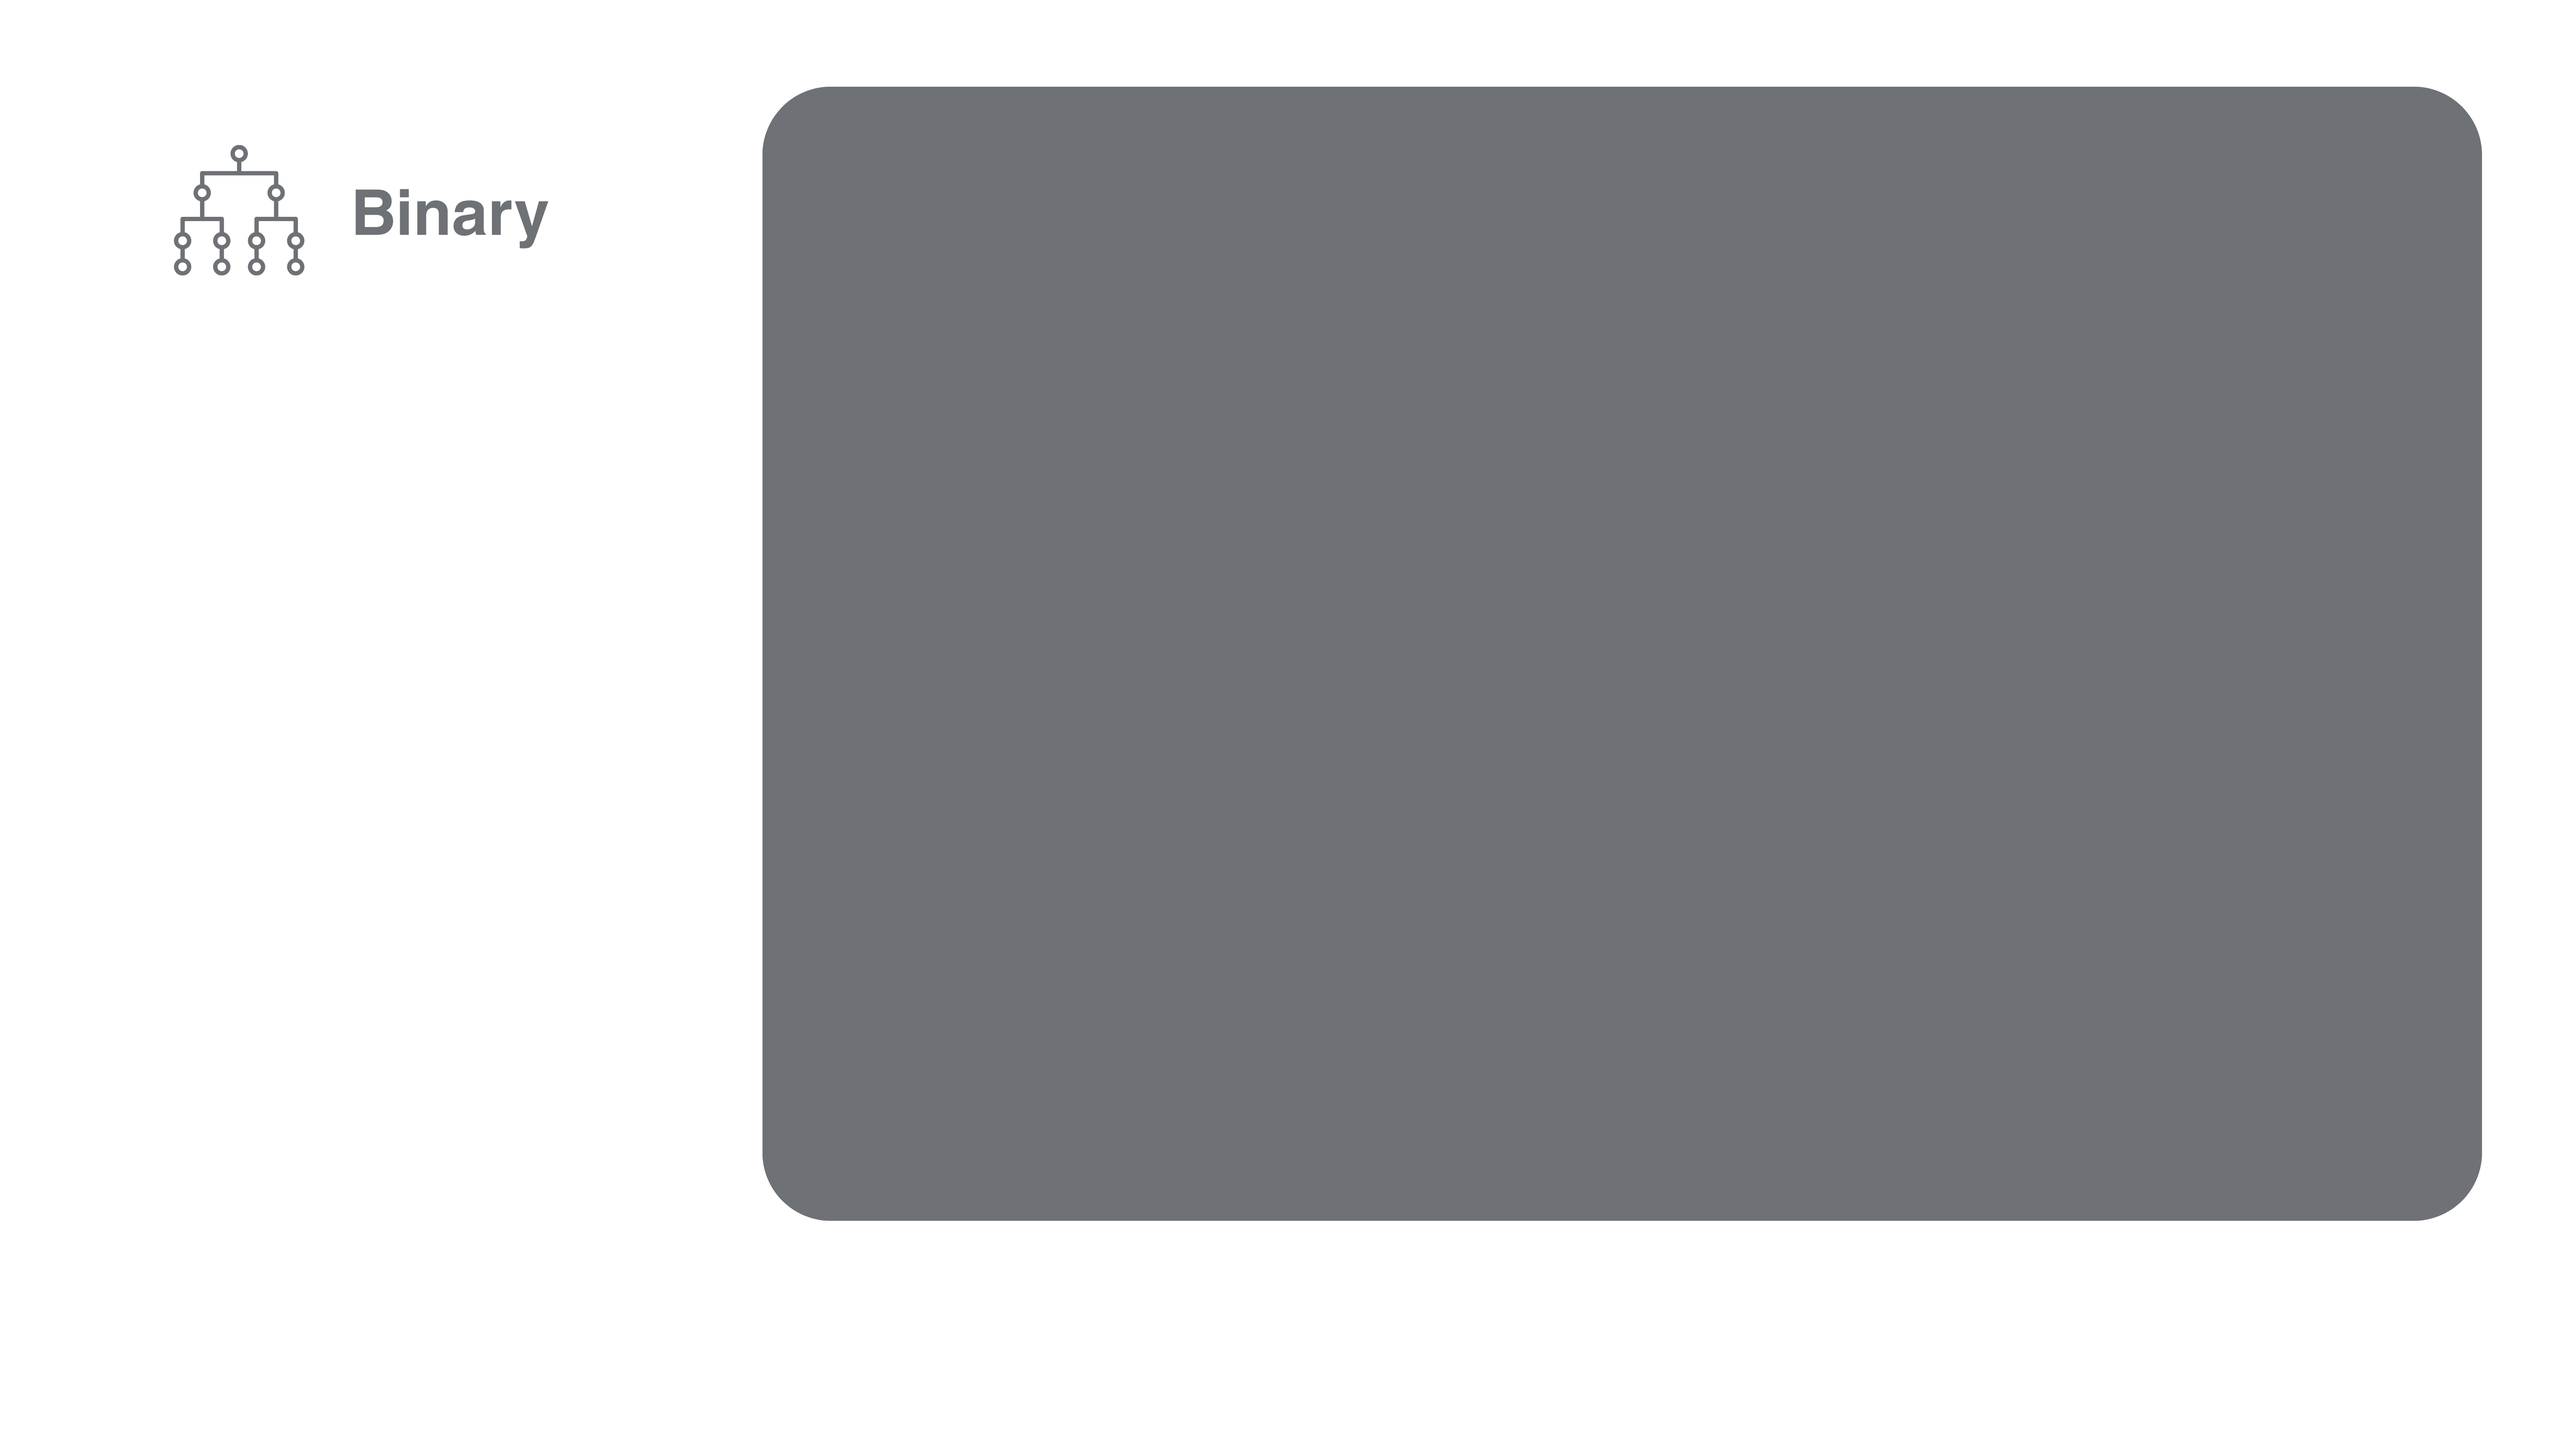
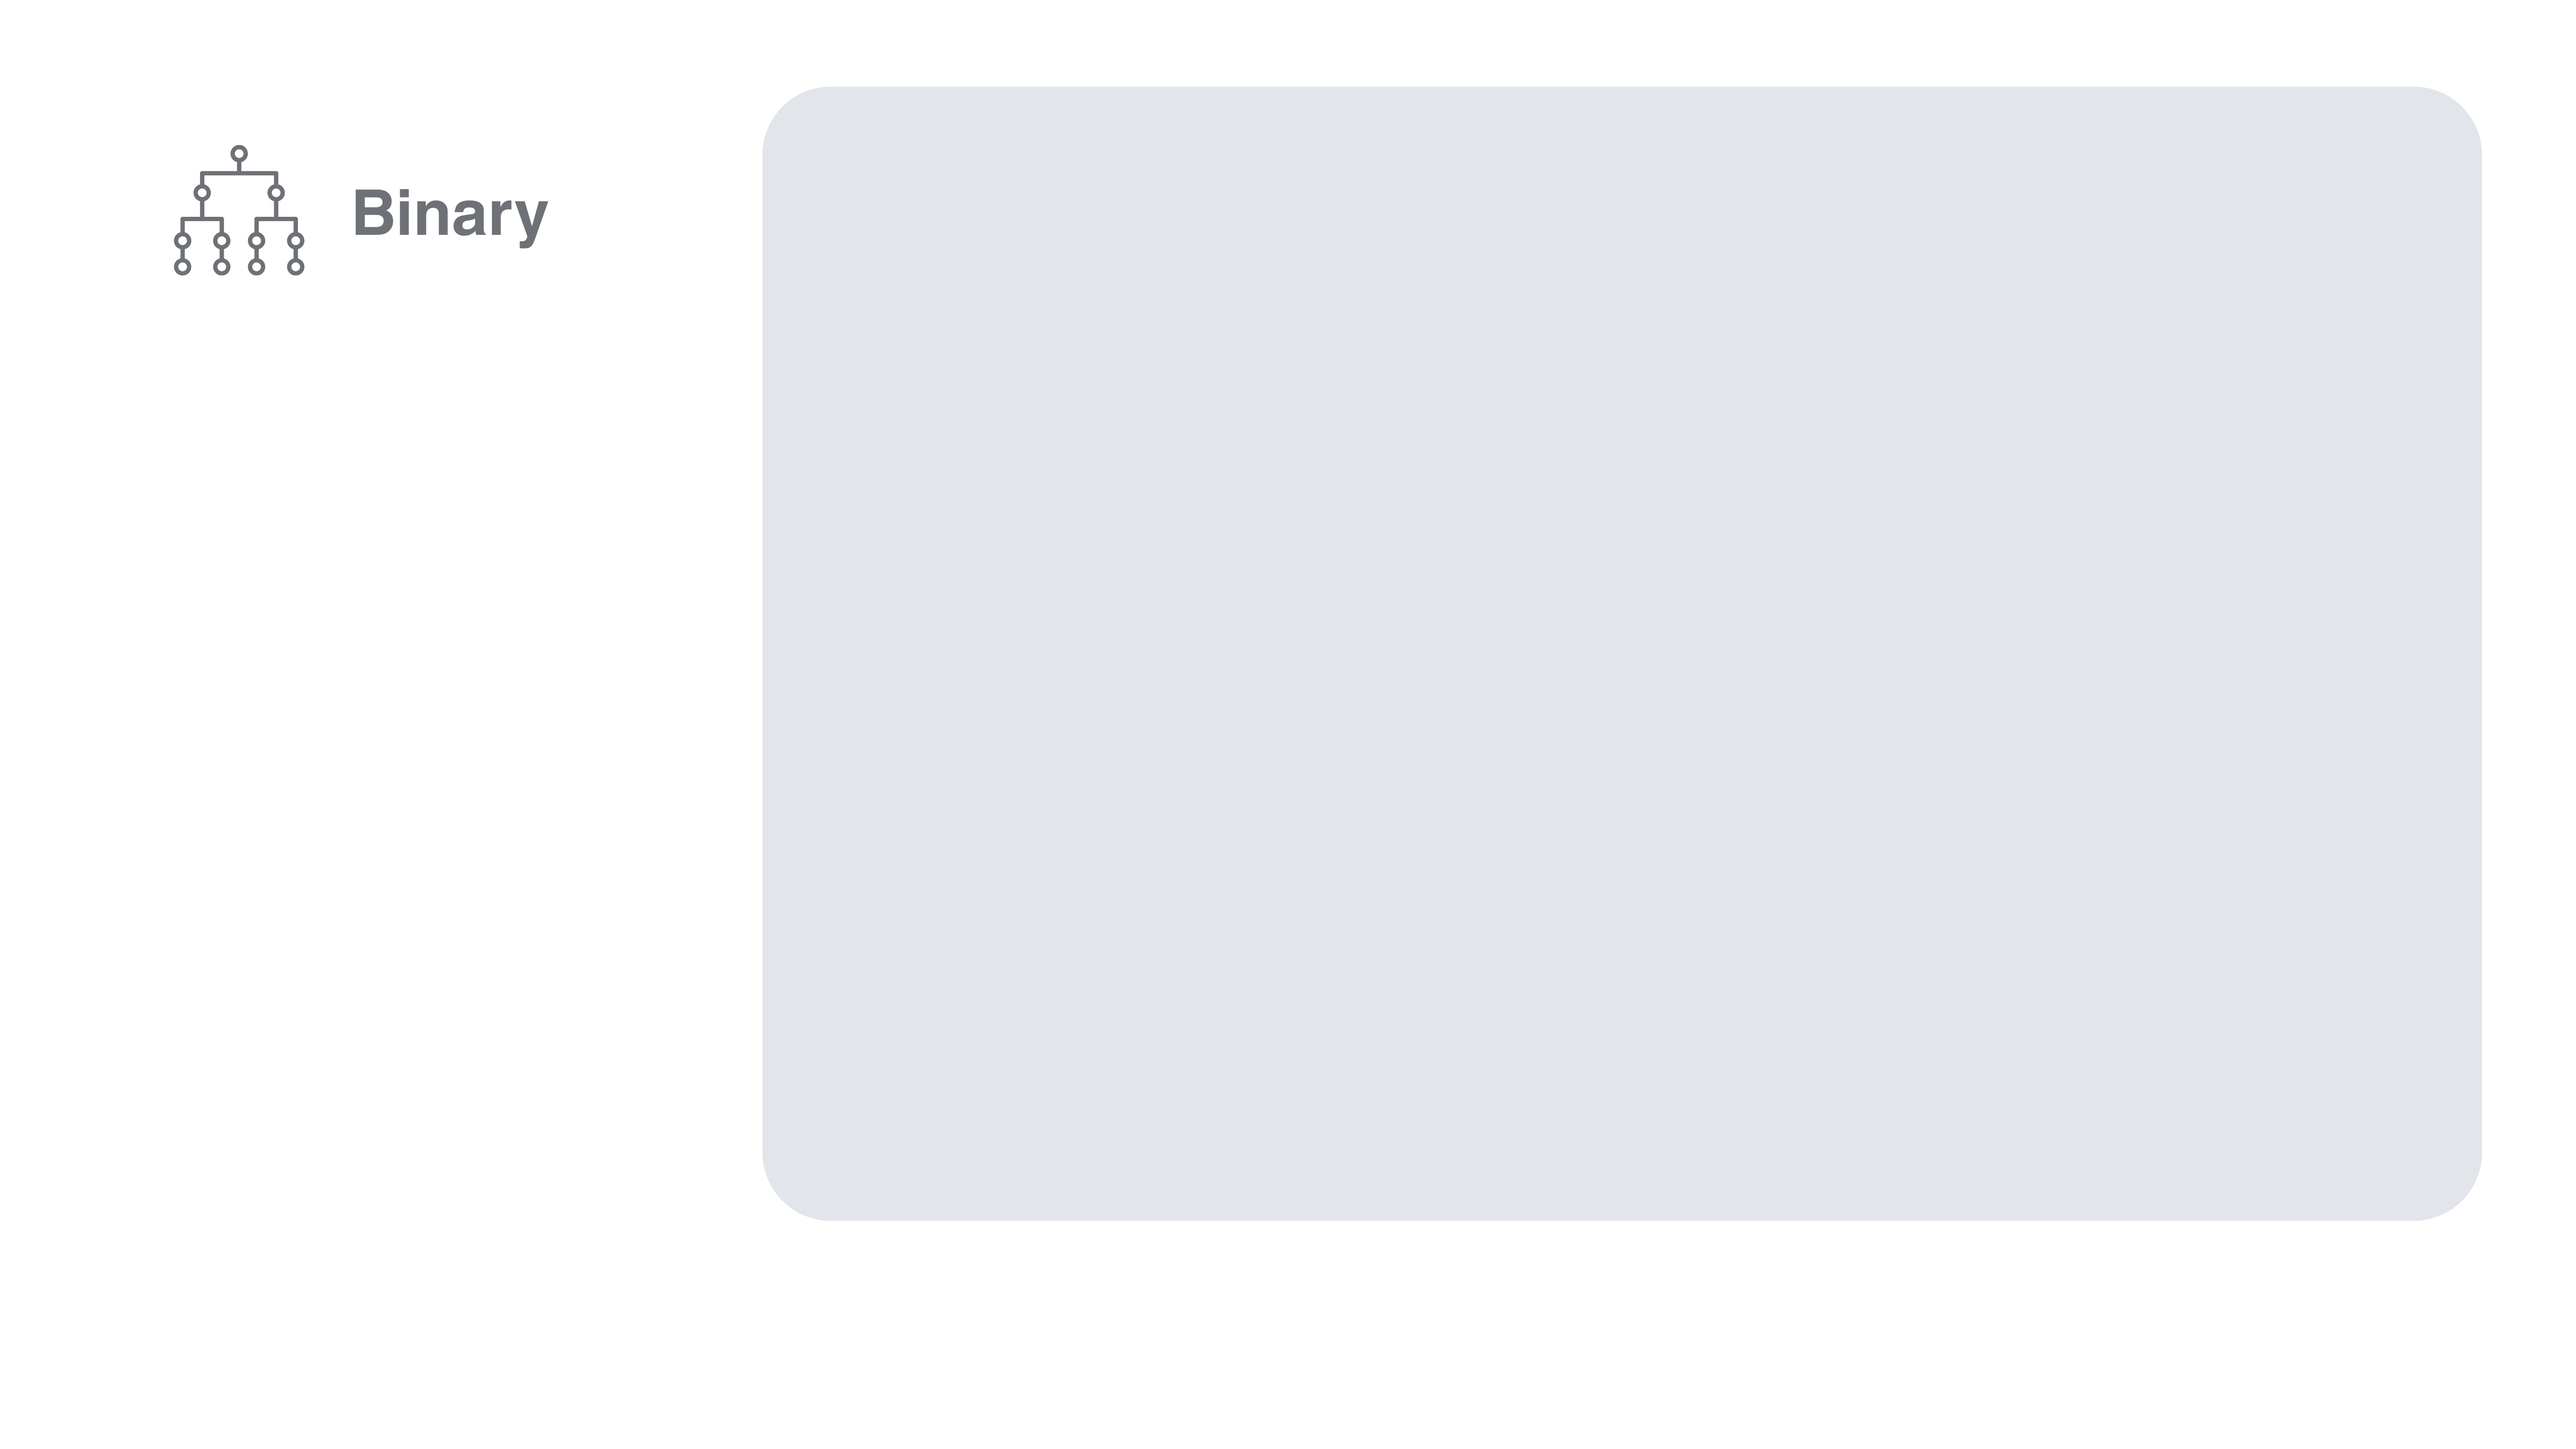
Done na po ang puno inupdate ko na rin other designs

diff --git a/pages/binary_tree.py b/pages/binary_tree.py
@@ -103,13 +103,46 @@ class tree_of_life(CTk):
             toggle_color = "#000000"
             option_color = "#252728"
             option_hover = "#3b3d3e"
+            frame_color = "#252728"
+            txt_color = "#ffffff"
         else:
             toggle_color = "#ffffff"
             option_color = "#e2e5e9"
             option_hover = "#b7b7b8"
+            frame_color = "#e2e5e9"
+            txt_color = "#6e7175"
 
         self.toggle_button.configure(fg_color=toggle_color, hover_color=toggle_color)
         self.back_button.configure(fg_color=toggle_color, hover_color=toggle_color)
+        self.image_frame.configure(fg_color=frame_color, bg_color=frame_color)
+        self.bt_frame.configure(fg_color=frame_color)
+        self.expr.configure(fg_color=frame_color, bg_color=frame_color)
+        self.bst_frame.configure(fg_color=frame_color)
+        self.bst_input.configure(fg_color=frame_color, bg_color=frame_color)
+        self.bt_label.configure(text_color=txt_color)
+        self.bst_label.configure(text_color=txt_color)
+        self.trav.configure(fg_color=frame_color)
+        self.bt_gen_btn.configure(hover_color=option_hover)
+        self.bst_gen_btn.configure(hover_color=option_hover)
+        self.bst_btn.configure(fg_color=option_color, hover_color=option_hover)
+        self.bt_btn.configure(fg_color=option_color, hover_color=option_hover)
+
+
+
+    # Clears the Image
+    def clear_tree(self):
+        # Remove image from label
+        self.image_label.configure(image=None)
+        self.img = None  # release reference (important)
+
+        # Clear traversal textbox
+        self.trav.configure(state="normal")
+        self.trav.delete("1.0", "end")
+        self.trav.configure(state="disabled")
+
+        # Optional: clear inputs
+        self.expr.delete("1.0", "end")
+        self.bst_input.delete("1.0", "end")
 
 
 
@@ -168,20 +201,33 @@ class tree_of_life(CTk):
 
 
 
-        # Tree
-        self.image_frame = CTkFrame(self, width=900, height=600, corner_radius=10)
-        self.image_frame.place(x=500, y=100)
+        #CLear Button
+        self.clear_btn = CTkButton(
+            self,
+            text="Clear Tree",
+            font=("Arial", 17, "bold"),
+            width=293,
+            height=60,
+            corner_radius=30,
+            command=self.clear_tree
+        )
+        self.clear_btn.place(x=139.5, y=724)
 
-        self.image_label = CTkLabel(self.image_frame, text="", width=900, height=600)
-        self.image_label.place(x=0, y=0)
+
+
+        # Tree Generator
+        self.image_frame = CTkScrollableFrame(self, width=1166, height=710, corner_radius=51)
+        self.image_frame.place(x=1210, y=465, anchor="center")
+
+        self.image_label = CTkLabel(self.image_frame, text="", width=900, height=600,)
+        self.image_label.pack(padx=10, pady=10)
 
 
 
-
-        # Frame
         # BT Frame
-        self.bt_frame = CTkFrame(self, height=250, width=293, corner_radius=30)
-        CTkLabel(self.bt_frame, text="Expression Tree", font=("Arial", 17, "bold")).place(x=150, y=10, anchor="center")
+        self.bt_frame = CTkFrame(self, height=250, width=293, corner_radius=50)
+        self.bt_label = CTkLabel(self.bt_frame, text="Expression Tree", font=("Arial", 17, "bold"))  # Create label
+        self.bt_label.place(x=146.5, y=30, anchor="center")  # Place it separately
         self.expr = CTkTextbox(self.bt_frame, width=280, height=60)
         self.expr.place(x=10, y=40)
         self.bt_frame.place(x=141, y=359)
@@ -192,13 +238,15 @@ class tree_of_life(CTk):
             font=("Arial", 17, "bold"),
             width=293,
             height=60,
+            corner_radius=30,
             command=self.gen_expr
         )
-        self.bt_gen_btn.place(x=139.5, y=674)
+        self.bt_gen_btn.place(x=139.5, y=644)
 
         # BST Frame
         self.bst_frame = CTkFrame(self, height=250, width=293, corner_radius=50)
-        CTkLabel(self.bst_frame, text="Binary Search Tree", font=("Arial", 17, "bold")).place(x=150, y=10, anchor="center")
+        self.bst_label = CTkLabel(self.bst_frame, text="Binary Search Tree", font=("Arial", 17, "bold"))  # Create label
+        self.bst_label.place(x=146.5, y=30, anchor="center")  # Place it separately
         self.bst_input = CTkTextbox(self.bst_frame, width=280, height=60)
         self.bst_input.place(x=10, y=40)
         self.bst_frame.place(x=141, y=359)
@@ -212,7 +260,16 @@ class tree_of_life(CTk):
             corner_radius=30,
             command=self.gen_bst
         )
-        self.bst_gen_btn.place(x=139.5, y=674)
+        self.bst_gen_btn.place(x=139.5, y=644)
+
+
+
+        # Textbox for inorder, preorder, and postorder
+        self.trav = CTkTextbox(self, width=293,
+                               height=120,
+                               state="disabled",
+                               corner_radius=30,)
+        self.trav.place(x=141, y=820)
 
 
 
@@ -273,10 +330,10 @@ class tree_of_life(CTk):
 
         if mode == "BT":
             self.bt_frame.place(x=141, y=359)
-            self.bt_gen_btn.place(x=139.5, y=674)
+            self.bt_gen_btn.place(x=139.5, y=644)
         else:
             self.bst_frame.place(x=141, y=359)
-            self.bst_gen_btn.place(x=140, y=697)
+            self.bst_gen_btn.place(x=139.5, y=644)
 
     #Function for BT
     def gen_expr(self):
@@ -304,6 +361,7 @@ class tree_of_life(CTk):
         self.trav.insert("end", f"Preorder: {' '.join(pre)}\n")
         self.trav.insert("end", f"Postorder: {' '.join(post)}")
         self.trav.configure(state="disabled")
+
 
     #Function for BST
     def gen_bst(self):
